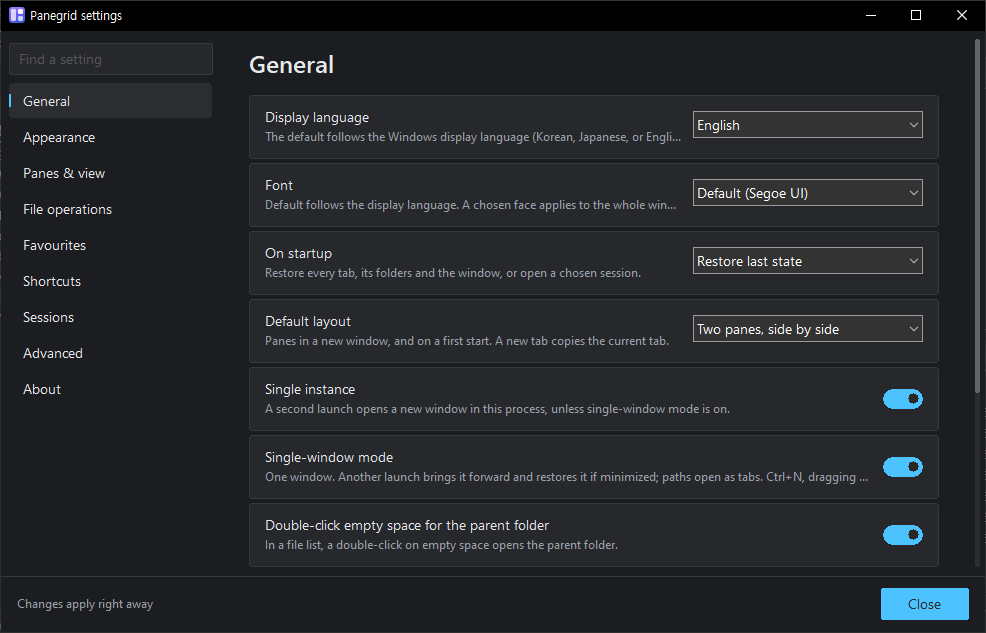
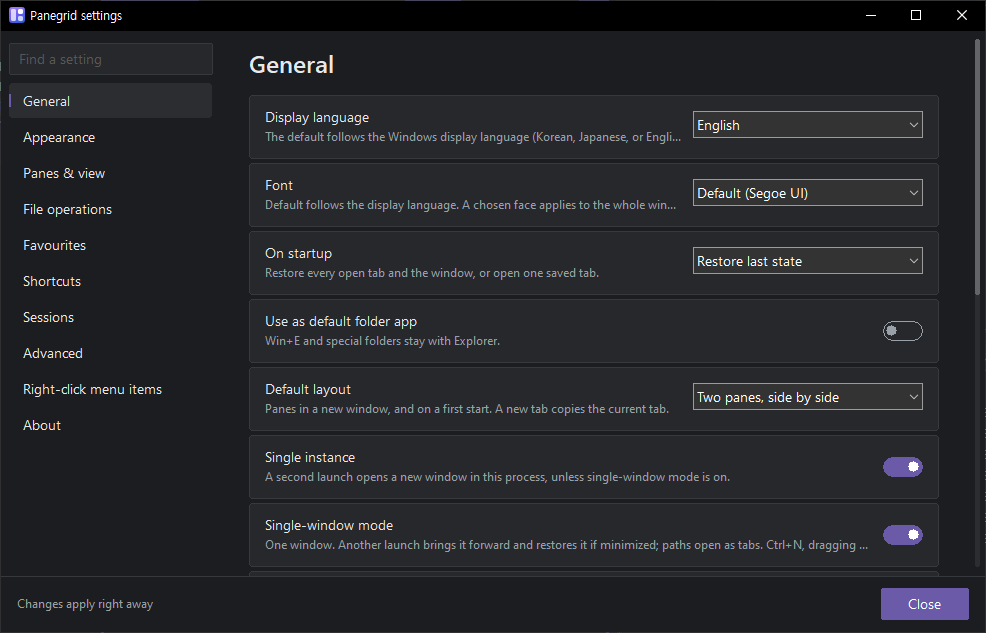
Refresh README screenshots and describe features through 0.1.38

diff --git a/README.ko.md b/README.ko.md
@@ -38,17 +38,19 @@
 
 최대 4열 × 4칸. 레이아웃 선택기를 누르거나 끌어서 배치하고, 경계를 끌어 크기를 바꿉니다. 지금 탭의 배치·폴더·열·색 라벨을 이름 붙인 세션으로 저장하고, 열면 현재 탭 옆에 새 탭이 생깁니다.
 
+패널이 하나일 때 ⇄ 버튼은 탭을 둘로 나눕니다. 선택한 폴더(선택이 없거나 파일만 선택했으면 현재 폴더)가 같은 열·보기 설정으로 오른쪽 새 패널에 열립니다. 패널이 둘 이상이면 ⇄는 기존 메뉴를 그대로 씁니다.
+
 <table><tr><td><img alt="layout" src="docs/images/layout.ko.png"></td><td><img alt="sessions" src="docs/images/sessions.ko.png"></td></tr></table>
 
 ### 🗂 이름이 저절로 붙는 탭
 
-크롬 스타일 창 탭과 패널 안의 탭. 탭 이름은 활성 폴더를 따라가고(경로는 툴팁), 더블클릭이나 우클릭 → 이름 바꾸기로 직접 이름을 정하고 탭 색도 고릅니다.
+크롬 스타일 창 탭과 패널 안의 탭. 탭 이름은 활성 폴더를 따라가고(경로는 툴팁), 더블클릭이나 우클릭 → 이름 바꾸기로 직접 이름을 정하고 탭 색도 고릅니다. 탭 잠금, 탭 복제(Ctrl+Alt+K), 새 창으로 이동, 세션으로 저장도 됩니다. 창 탭은 기본 폭이 넓어져(135px) 이름이 더 많이 보입니다.
 
 <p align="center"><img width="560" alt="tabs" src="docs/images/tabs.ko.png"></p>
 
 ### ⭐ 탐색기 고정 항목까지 담은 즐겨찾기 팝업
 
-툴바의 ★가 테마에 맞춘 즐겨찾기 팝업을 엽니다. 맨 위에 탐색기 즐겨찾기 고정 항목, 그 아래 내 그룹이 있고 중첩과 끌어서 순서 바꾸기를 지원합니다. Ctrl+B는 빠른 즐겨찾기 목록을 엽니다.
+툴바의 ★가 테마에 맞춘 즐겨찾기 팝업을 엽니다. 맨 위에 탐색기 즐겨찾기 고정 항목, 그 아래 내 그룹이 있고 중첩과 끌어서 순서 바꾸기를 지원합니다. 항목에 마우스를 올리면 전체 위치가 보이고, 패널이나 탐색기에서 파일·폴더를 끌어다 놓으면 즐겨찾기에 추가됩니다. Ctrl+B는 빠른 즐겨찾기 목록을 엽니다.
 
 <p align="center"><img width="760" alt="favorites" src="docs/images/favorites.ko.png"></p>
 
@@ -69,6 +71,14 @@
 셸 확장까지 포함한 탐색기 우클릭 메뉴 전체(빈 곳에는 속성도), 그리고 Windows 표준 IFileOperation 창으로 다른 패널에 복사·이동(최대 10,000개).
 
 <p align="center"><img width="760" alt="explorer" src="docs/images/explorer.ko.png"></p>
+
+### ⚡ 작은 편의 기능
+
+- **주소 표시줄 전체 경로.** 패널 주소 표시줄이 좁아 `…`로 줄어들면, 마우스를 올려 전체 경로를 봅니다.
+- **마우스 옆 버튼.** 폴더 패널에서 뒤로·앞으로가 동작하며, 원격 데스크톱(RDP)에서도 됩니다.
+- **우클릭 메뉴의 첫 지연 감소.** 실행 직후와 오래 쉰 뒤에 셸 컨텍스트 메뉴를 백그라운드에서 미리 준비합니다.
+- **열 너비 기억.** 폴더로 돌아오면 조절한 열 너비가 유지됩니다.
+- **다음 실행 때 충돌 보고.** 서드파티 셸 확장 때문에 Panegrid가 종료되면 보고서가 원인을 알려 주며, `panegrid.json`의 `blocked_shell_extensions`에 DLL 이름을 넣어 Panegrid 안에서만 막을 수 있습니다.
 
 ### 🎨 테마와 강조색
 

diff --git a/README.md b/README.md
@@ -38,17 +38,19 @@ Every pane is a real Windows Explorer view: the full right-click menu, drag and 
 
 Up to 4 columns × 4 panes. Click or drag across the layout picker, drag any boundary to resize, and save the current tab — layout, folders, columns, and colour labels — as a named session. Opening one adds a new tab beside the current one.
 
+With a single pane, the ⇄ button splits the tab: the selected folder (or the current one, if nothing or only files are selected) opens in a new right pane with the same columns and view. With two or more panes, ⇄ keeps its menu.
+
 <table><tr><td><img alt="layout" src="docs/images/layout.png"></td><td><img alt="sessions" src="docs/images/sessions.png"></td></tr></table>
 
 ### 🗂 Tabs that name themselves
 
-Chrome-style window tabs plus tabs inside each pane. A tab is named after its active folder (path in the tooltip); double-click or right-click → Rename to pin your own name, and pick a tab colour.
+Chrome-style window tabs plus tabs inside each pane. A tab is named after its active folder (path in the tooltip); double-click or right-click → Rename to pin your own name, lock a tab, duplicate it (Ctrl+Alt+K), move it to a new window, save it as a session, and pick a tab colour. Window tabs are wider by default (135 px), so more of the name shows.
 
 <p align="center"><img width="560" alt="tabs" src="docs/images/tabs.png"></p>
 
 ### ⭐ Favourites popup with Explorer pins
 
-The ★ on the toolbar opens a themed favourites popup: your Explorer Quick-access pins at the top, then your own groups, with nesting and drag to reorder. Ctrl+B opens the quick favourites list.
+The ★ on the toolbar opens a themed favourites popup: your Explorer Quick-access pins at the top, then your own groups, with nesting and drag to reorder. Hover a row to see its full location, and drop files or folders from a pane or Explorer onto the panel to add them as favourites. Ctrl+B opens the quick favourites list.
 
 <p align="center"><img width="760" alt="favorites" src="docs/images/favorites.png"></p>
 
@@ -69,6 +71,14 @@ Ctrl+F in any pane filters as you type; tick Subfolders and it asks voidtools Ev
 The full Explorer context menu (shell extensions included, plus Properties on empty space), and copy / move through Windows' standard IFileOperation dialog — up to 10,000 items to another pane.
 
 <p align="center"><img width="760" alt="explorer" src="docs/images/explorer.png"></p>
+
+### ⚡ Small details
+
+- **Full path on hover.** When a pane's address bar is too narrow and shows `…`, hover it to see the whole path.
+- **Mouse side buttons everywhere.** Back and forward work in folder panes, also over Remote Desktop.
+- **Right-click menu without the first-click lag.** Shell context menus are warmed up in the background after launch and after a long idle.
+- **Column widths are remembered** when you come back to a folder.
+- **Crash report on the next launch.** If a third-party shell extension takes Panegrid down, the report names it, and you can block that DLL inside Panegrid only (`blocked_shell_extensions` in `panegrid.json`).
 
 ### 🎨 Themes & accent
 
